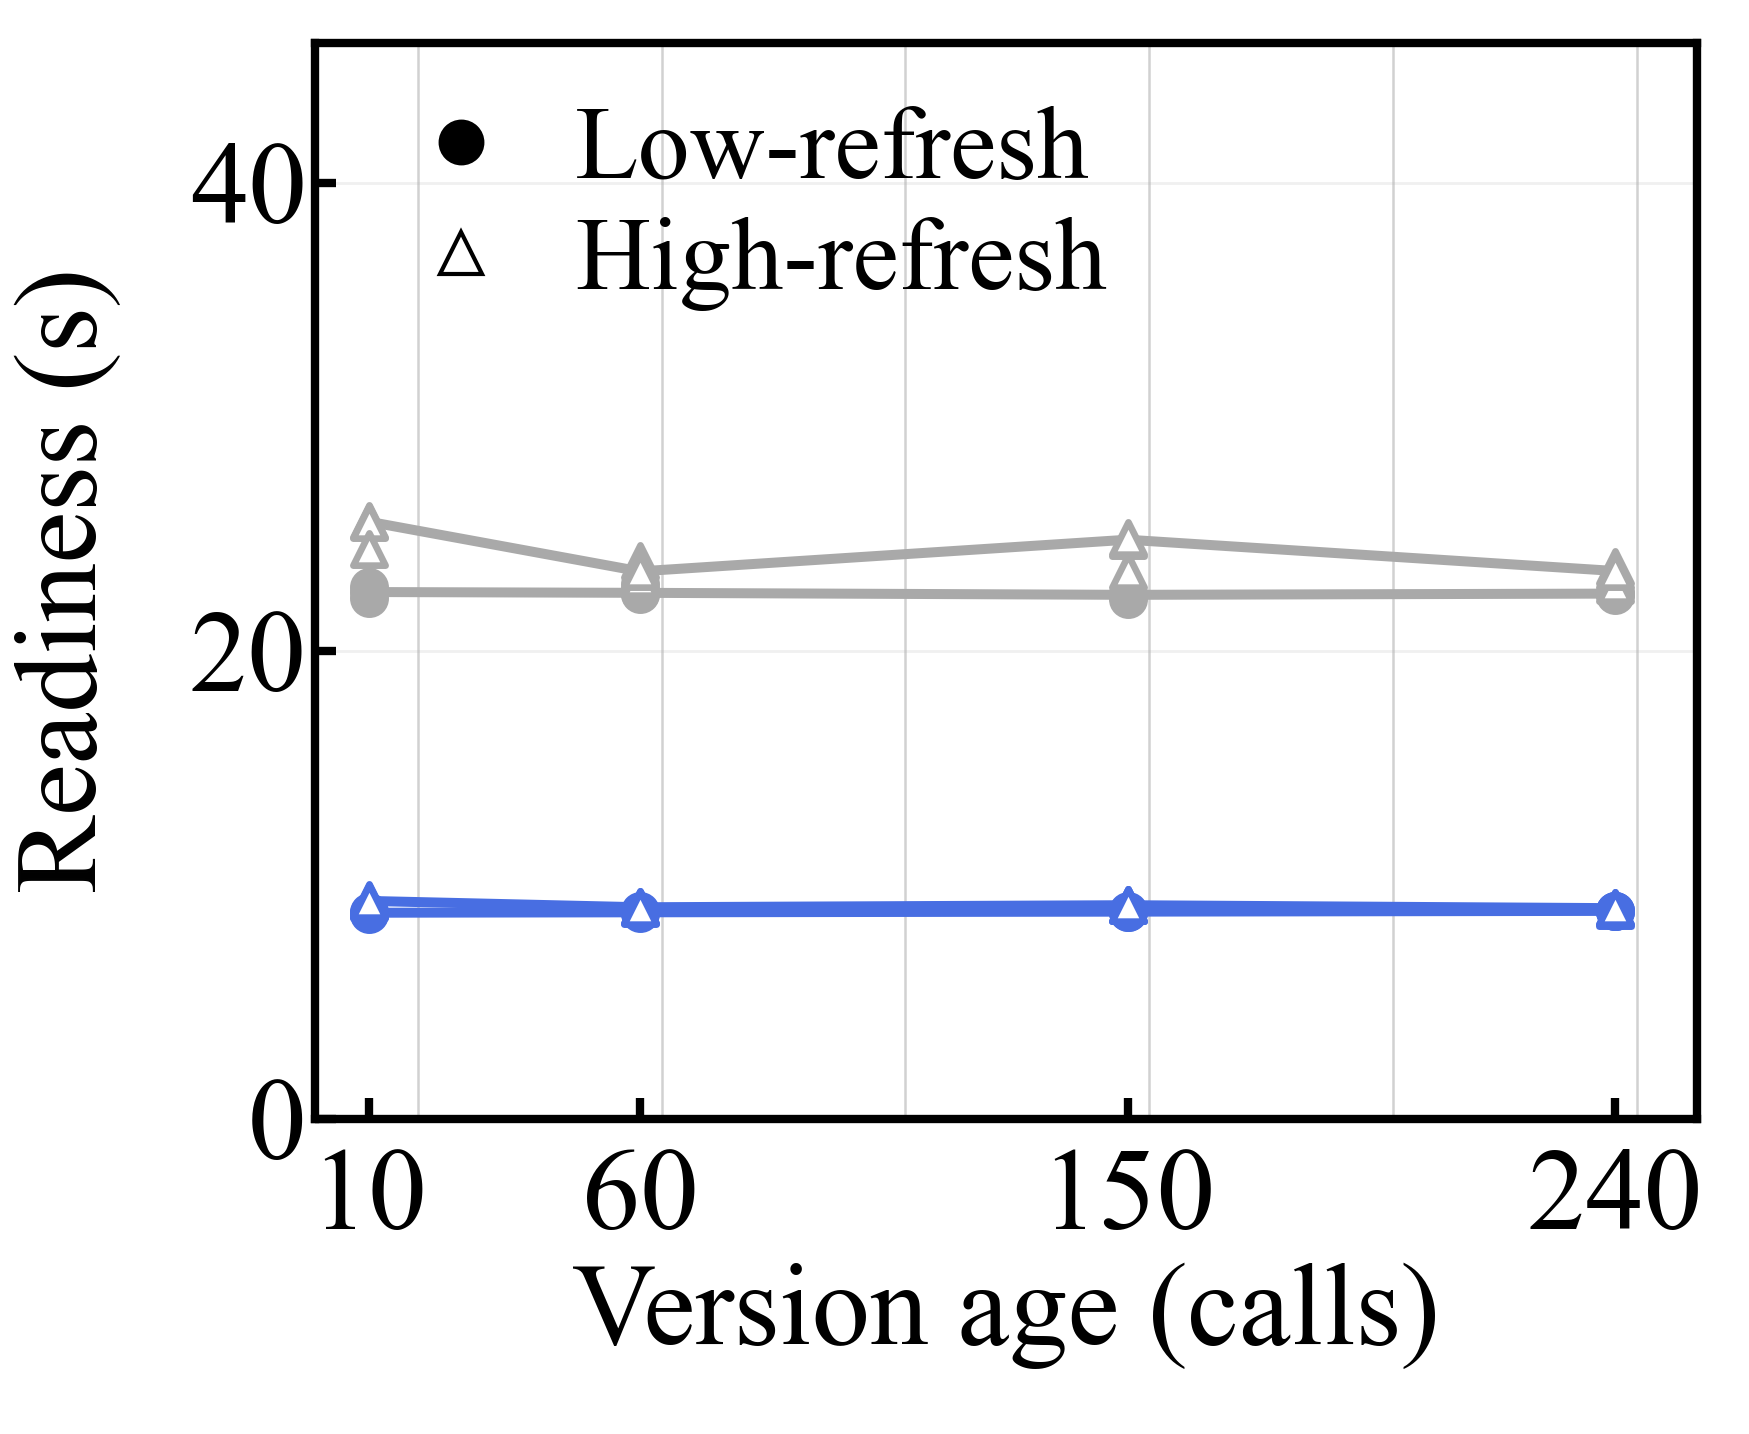
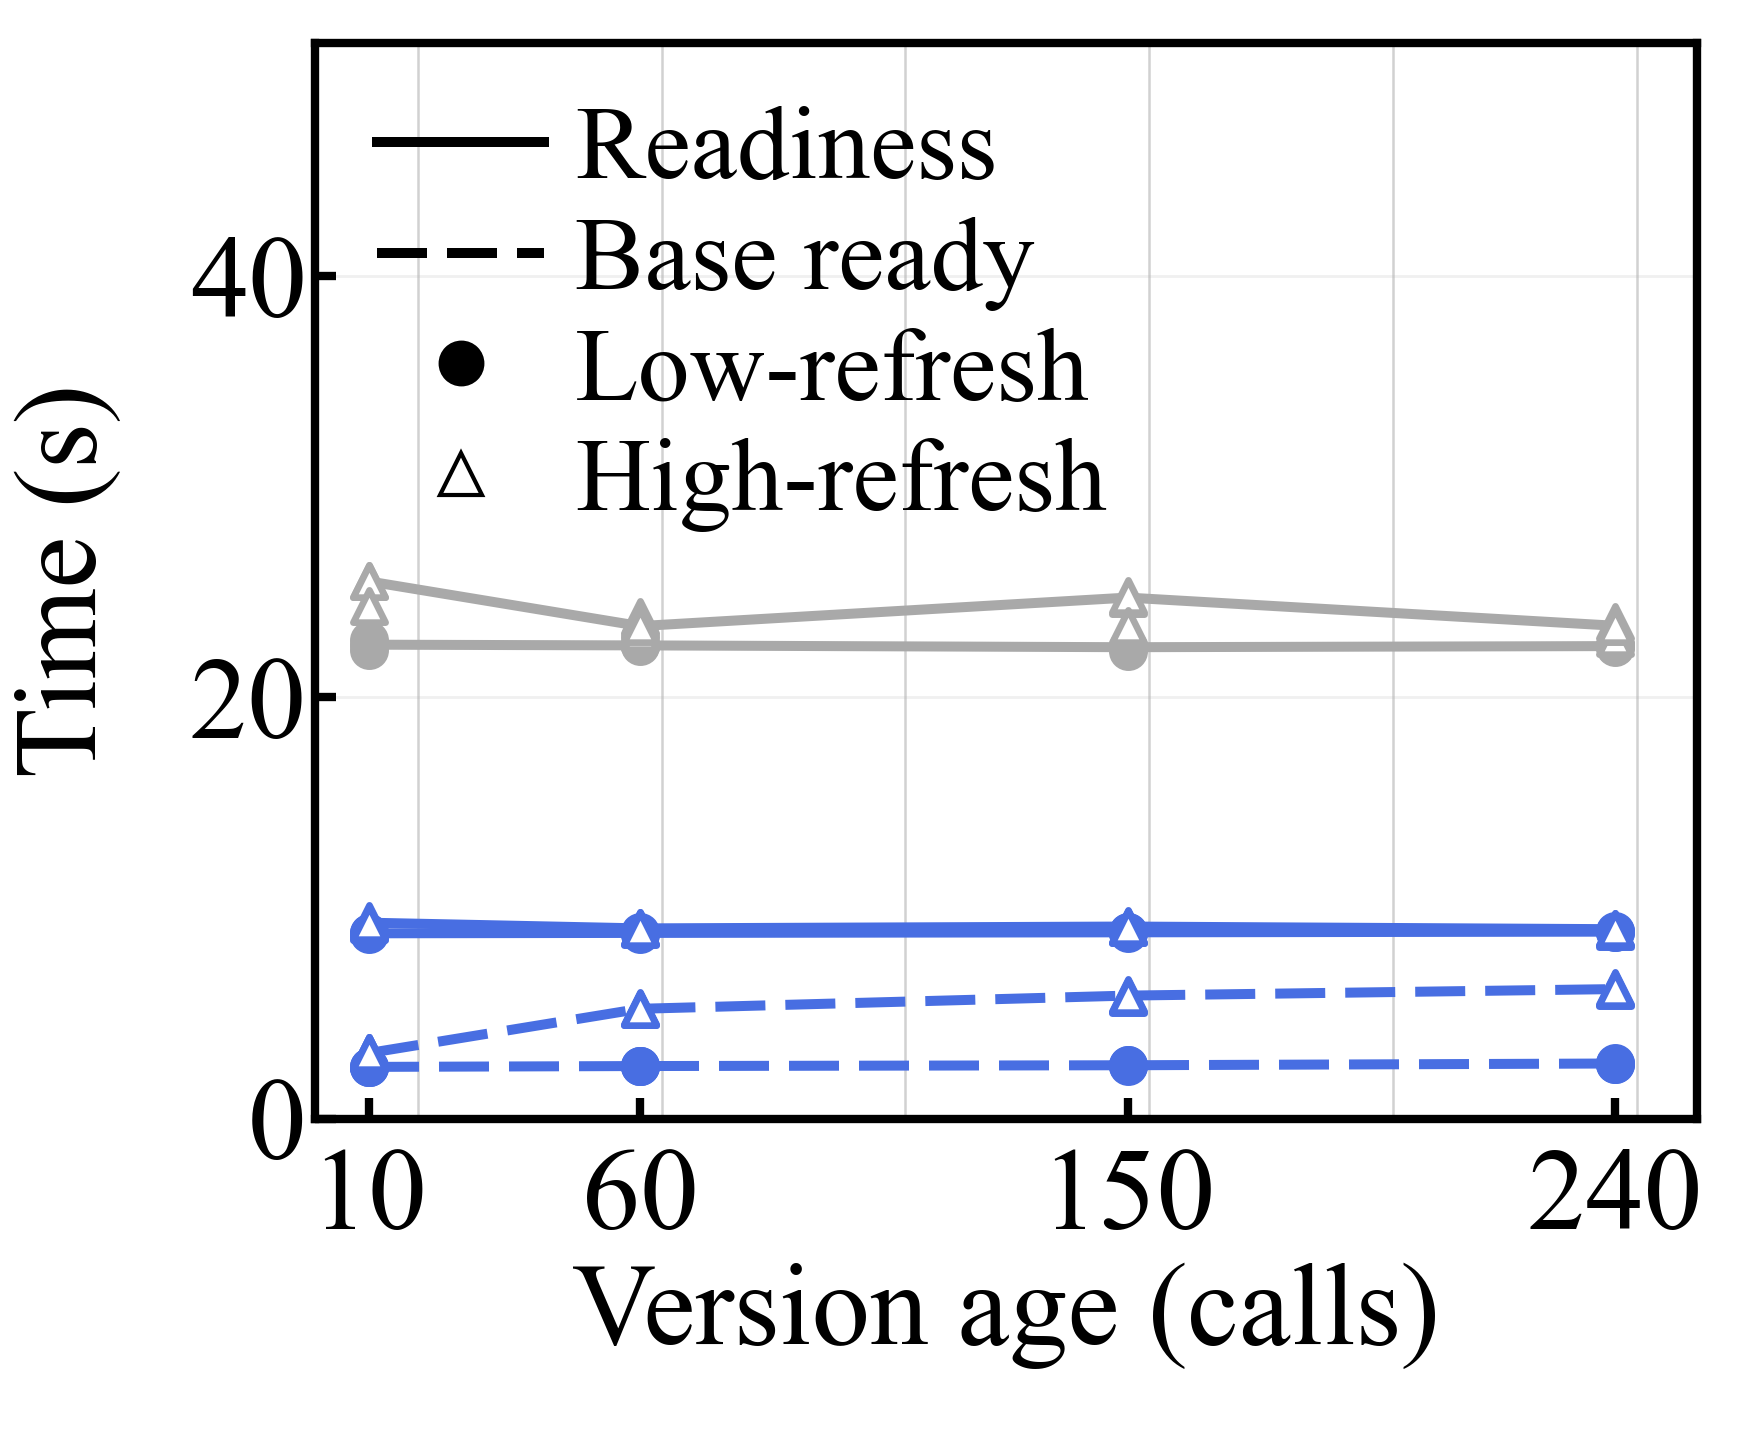
Fig. 10b (user review): Versioned base ready added as a dashed blue line (same start as readiness: second xb_task_start -> A's accepted replay_delta_base; readiness -> B's replay_ready), y label 'Time (s)', legend lists Readiness / Base ready line styles and the workload markers; base ready < readin

diff --git a/tools/eval/plot_fig10.py b/tools/eval/plot_fig10.py
@@ -3,7 +3,8 @@
 
 fig10a_bytes      Sink base transferred at the second migration (MB, log) vs version age: Versioned (M2, measured), Changed-block
                   (computed from the measured block sets), Full (measured); both workloads; refreshed entries annotated.
-fig10b_readiness  destination readiness (s) vs version age: Full vs Versioned, both workloads.
+fig10b_readiness  destination readiness (s) vs version age: Full vs Versioned, plus Versioned base ready (dashed;
+                  same start as readiness), both workloads.
 Encoding: method by color / line style as Figs. 7-9 (Versioned blue solid, Changed-block gray dashed, Full light gray
 solid); workload by marker (Low-refresh filled circle, High-refresh open triangle). Line = median, points = reps.
 Canvas of Fig. 6a / Fig. 9.
@@ -29,6 +30,7 @@ AXES_POS = [0.18, 0.22, 0.79, 0.75]
 AGES = (10, 60, 150, 240)
 REALIGN = (19, 64, 109, 154, 199, 244)   # ages (calls after S1 = 74) of the realignments at calls 93, 138, ...
 WL = {"dog": ("o", True, "Low-refresh"), "bfly": ("^", False, "High-refresh")}
+BASE_LS = (0, (5, 2))   # 10b: Versioned base ready (same dash as Changed-block in 10a; color tells the method)
 METHOD = {"ver": (BLUE, "-", "Versioned"), "chg": (DIM_GRAY, (0, (5, 2)), "Changed-block"), "full": (DARK_GRAY, "-", "Full")}
 
 
@@ -64,9 +66,12 @@ def common(ax, ylabel):
     ax.set_xlabel("Version age (calls)", fontsize=28, labelpad=2)
 
 
-def legend(ax, loc, methods=(), workloads=False):
-    """Style-size legend (never smaller): 10a lists the methods, 10b the workload markers (the caption covers both)."""
+def legend(ax, loc, methods=(), workloads=False, times=False):
+    """Style-size legend (never smaller): 10a lists the methods (colors), 10b the workload markers and the two times
+    (line style: readiness solid, base ready dashed)."""
     hs = [Line2D([], [], color=METHOD[k][0], ls=METHOD[k][1], lw=2.4, label=METHOD[k][2]) for k in methods]
+    if times:
+        hs += [Line2D([], [], color="black", ls=l, lw=2.4, label=t) for l, t in (("-", "Readiness"), (BASE_LS, "Base ready"))]
     if workloads:
         hs += [Line2D([], [], color="black", marker=WL[w][0], mfc="black" if WL[w][1] else "white", ls="none", ms=10, label=WL[w][2]) for w in WL]
     ax.legend(handles=hs, loc=loc, frameon=False, fontsize=LEGEND, handlelength=1.6, handletextpad=0.3, labelspacing=0.15, ncol=1, borderaxespad=0.2)
@@ -118,9 +123,13 @@ def panel_b(C, out: Path):
             col, ls, _ = METHOD[arm]
             draw(ax, xs, med, pts, col, ls, mk, filled, z=5 if arm == "ver" else 3)
             top = max(top, max(p[1] for p in pts))
-    ax.set_ylim(0, top * 1.8 if top else 1)
-    common(ax, "Readiness (s)")
-    legend(ax, "upper left", workloads=True)
+        # Versioned base ready (same start: the second migration's task start), below its readiness at every age
+        xs, med, pts = series(C, w, "ver", "base_ready_s")
+        if xs:
+            draw(ax, xs, med, pts, BLUE, BASE_LS, mk, filled, z=4)
+    ax.set_ylim(0, max(50, top * 2.0) if top else 1)   # headroom for the 4-row legend above Full
+    common(ax, "Time (s)")
+    legend(ax, "upper left", workloads=True, times=True)
     save(fig, out)
 
 

diff --git a/results/evaluation/osdi/fig10/fig10_report.md b/results/evaluation/osdi/fig10/fig10_report.md
@@ -5,7 +5,7 @@ B = elves-02): A -> B -> A, seed 0, trigger 30, first switch s1 = 74, ages 10 / 
 vs Versioned (`--replay_retain --replay_reuse`), 3 reps, both workloads. Numbers: `fig10_results.{json,md}`
 (`tools/eval/fig10_report.py`); figures: `figures/` (`tools/eval/plot_fig10.py`, Fig. 6a canvas and axes box, style
 font sizes; legend label "Versioned", no mechanism name; (a) y range 0.1-5,000 MB with the legend at the bottom
-right).
+right; (b) adds Versioned base ready, dashed, y label "Time (s)").
 
 ## 1. Verdicts (frozen rules)
 
@@ -114,8 +114,14 @@ at age 240 vs readiness 8.99 s), not a speedup that decays with age. Full sends 
 **Caption draft.** *Fig. 10. Versioned Sink reuse vs version age (A -> B -> A, 1 Gbps). (a) Sink bytes sent at the
 second migration (log scale). Versioned and Full are measured; Changed-block is an offline estimate based on measured
 modified K / V blocks (what reusing every unchanged block would send). Circles: Low-refresh; triangles: High-refresh.
-Numbers indicate refreshed Sink entries. (b) Destination readiness; lines are medians of 3 runs, markers individual
-runs.*
+Numbers indicate refreshed Sink entries. (b) Destination readiness (solid) for Full and Versioned, and Versioned base
+ready (dashed), both measured from the second migration's start; lines are medians of 3 runs, markers individual runs.
+Versioned base ready grows with age but stays below readiness at every age.*
+
+Panel (b) (user review, 2026-11-01) also draws Versioned base ready as a separate dashed line, not as a shaded band to
+readiness: the gap between the two is not the replay time alone (replay overlaps the base transfer and scheduling).
+Both times share one start (the second `xb_task_start`): base ready ends at A's accepted `replay_delta_base` (rebuild
+and 360-block check done), readiness at B's `replay_ready`. Base ready < readiness in all 24 Versioned runs [V].
 
 ## 5. Limits
 
